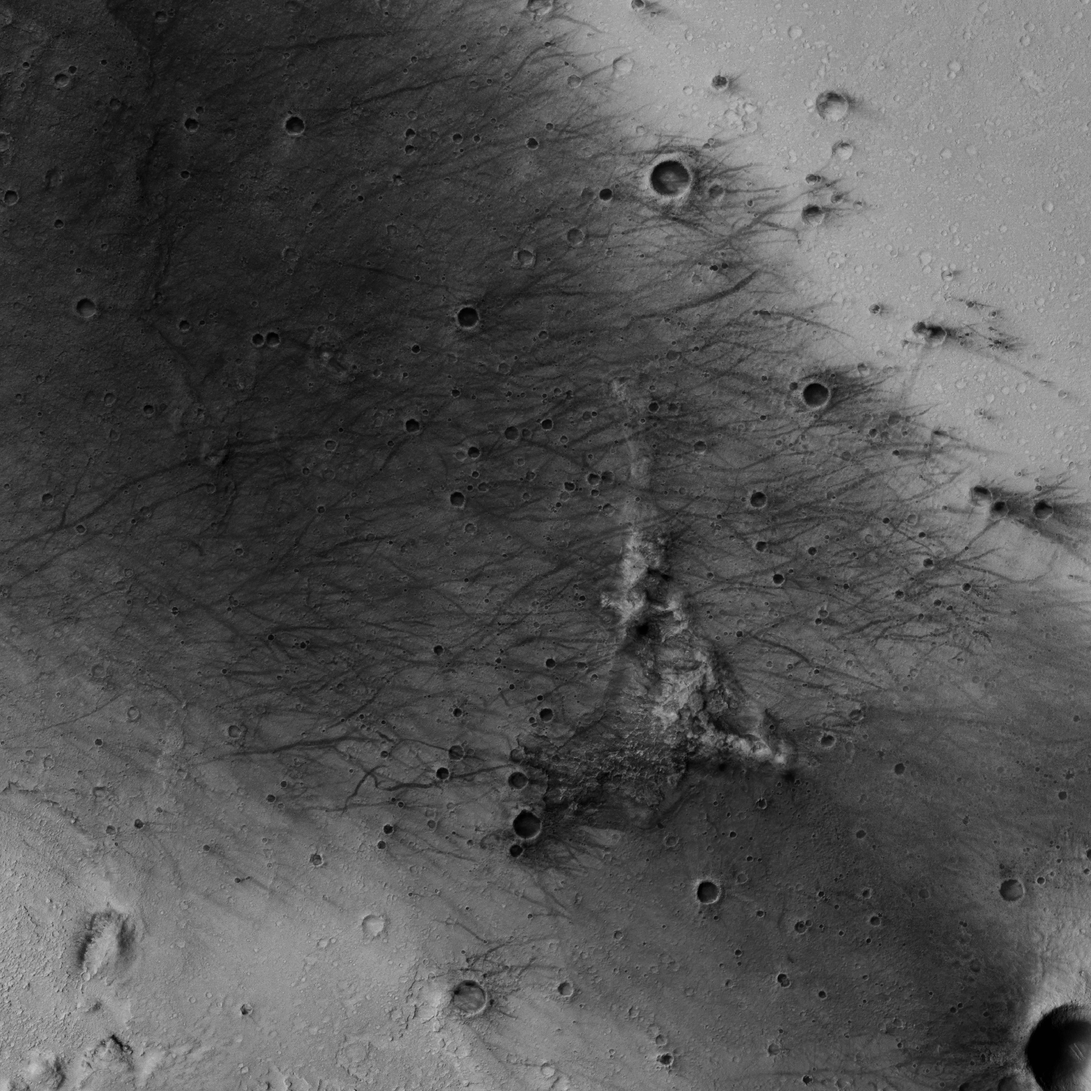
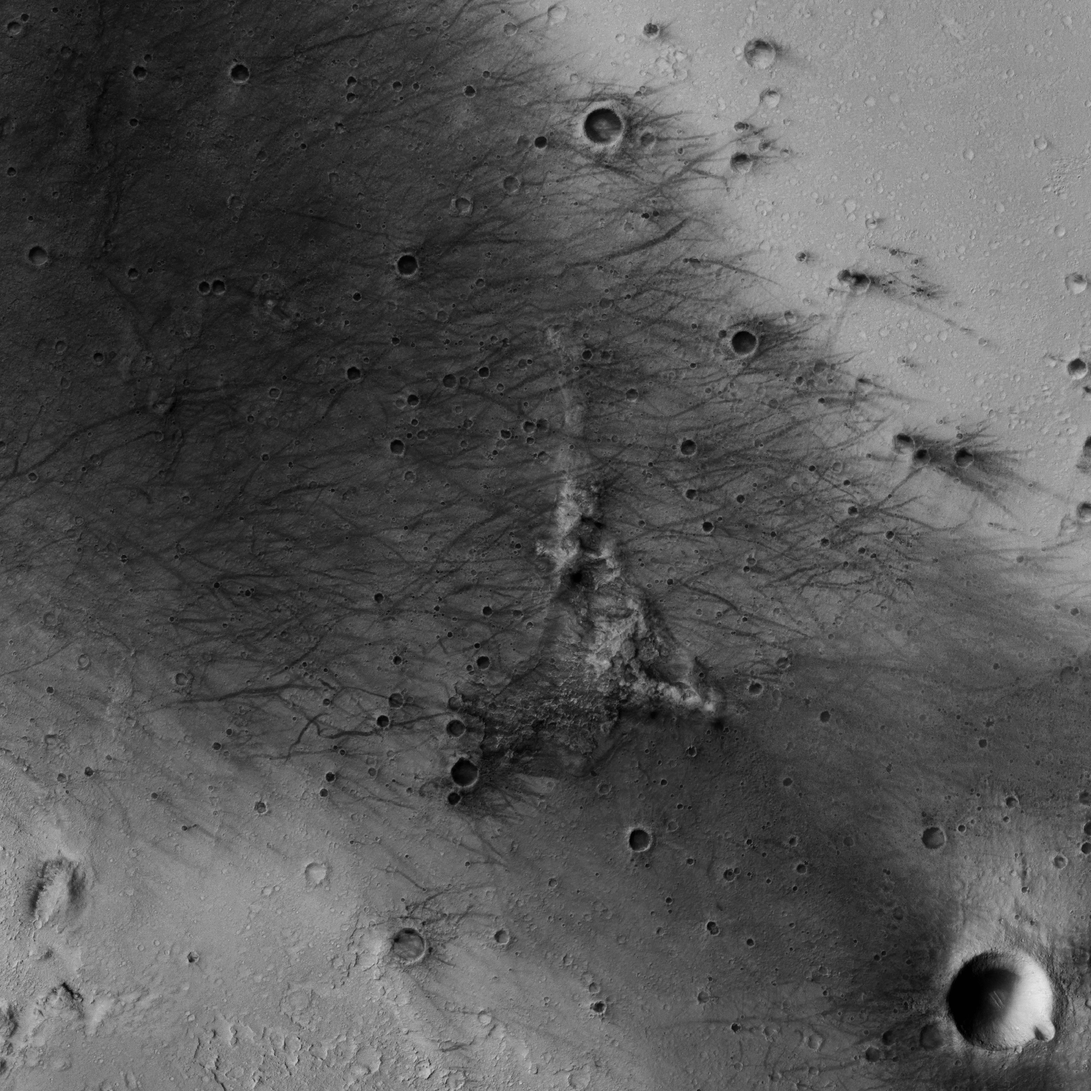
fix(mars): Spirit regional CTX square-pixel and registered to the detail patch; CTX tiles resume and mosaic across tile edges
Spirit's HiRISE patch sits 210 m east / 20 m south of where the CTX mosaic puts the same ground
(NCC 0.40 vs 0.15 second peak); hotspot_tier2_ctx_shift_m moves the CTX window, residual after
the re-cut 5 m. ctx-mosaic downloads now resume the partial zip (the server gives ~0.5 MB/s, a
1.9 GB tile cannot finish in one 30 min attempt) and fetch-mars-ctx builds a VRT over every tile the
window touches, so a site next to a tile edge (Viking 1, 0.1 degrees from its west edge, whose
shipped CTX is a slid window 4.6 km off) is cut centred instead of rejected. beagle2 pins its
HiRISE product in the sidecar ahead of its re-cut on the Bridges et al. 2017 position.

Claude-Session: https://claude.ai/code/session_01DJqN6rY9HUnN1X9JkpPWnW

diff --git a/scripts/hotspots/ctx-mosaic.ts b/scripts/hotspots/ctx-mosaic.ts
@@ -47,9 +47,38 @@ import { spawnSync, spawn } from 'node:child_process';
 
 const TILE_CACHE_DIR = path.join('.image-cache', 'ctx-mosaic');
 const TILE_URL_BASE = 'https://murray-lab.caltech.edu/CTX/V01/tiles';
-/** Per-URL download attempts on flaky connections. Same shape as
- *  the HiRISE downloader. ZIP is one big blob — no resume. */
-const DOWNLOAD_MAX_ATTEMPTS = 3;
+/** Per-URL download attempts. The server gives ~0.5 MB/s per connection, so a
+ *  1.9 GB zip takes more than one 30 min attempt: each attempt resumes the
+ *  partial file (curl -C -). */
+const DOWNLOAD_MAX_ATTEMPTS = 24;
+
+/**
+ * Centres of every 4 degree tile a window of +-halfNsDeg latitude and
+ * +-halfEwDeg longitude around (lat, lon) touches, one point per tile. A
+ * window that crosses a tile edge has to be cut from a mosaic of the
+ * neighbours (Viking 1 sits 0.1 degrees from its tile's west edge).
+ */
+export function tileCentresForWindow(
+  lat: number,
+  lon: number,
+  halfNsDeg: number,
+  halfEwDeg: number,
+): Array<{ lat: number; lon: number }> {
+  const out: Array<{ lat: number; lon: number }> = [];
+  const seen = new Set<string>();
+  const lat0 = Math.floor((lat - halfNsDeg) / 4) * 4;
+  const lon0 = Math.floor((lon - halfEwDeg) / 4) * 4;
+  for (let la = lat0; la <= lat + halfNsDeg; la += 4) {
+    for (let lo = lon0; lo <= lon + halfEwDeg; lo += 4) {
+      const c = { lat: la + 2, lon: lo + 2 };
+      const name = tileNameForLatLon(c.lat, c.lon);
+      if (seen.has(name)) continue;
+      seen.add(name);
+      out.push(c);
+    }
+  }
+  return out;
+}
 
 /**
  * Compute the tile name `E{lon}_N{lat}` for the (lat, lon) point.
@@ -229,13 +258,14 @@ async function downloadWithRetry(url: string, outPath: string): Promise<void> {
     const label = attempt > 1 ? ` (attempt ${attempt}/${DOWNLOAD_MAX_ATTEMPTS})` : '';
     console.log(`  downloading ${url.slice(0, 80)}…${label}`);
     const t0 = Date.now();
-    if (existsSync(outPath)) await fs.unlink(outPath);
     try {
       await new Promise<void>((resolve, reject) => {
         const proc = spawn(
           'curl',
           [
             '-sSL',
+            '-C',
+            '-',
             '--fail',
             '--connect-timeout',
             '30',

diff --git a/scripts/hotspots/fetch-mars-ctx.ts b/scripts/hotspots/fetch-mars-ctx.ts
@@ -1,8 +1,14 @@
 import { existsSync, readFileSync, promises as fs } from 'node:fs';
 import path from 'node:path';
 import sharp from 'sharp';
+import gdal from 'gdal-async';
 import { cropRemoteRasterToLatLon, CropError } from './gdal-crop.ts';
-import { ensureCtxMosaicTile, tileNameForLatLon, tileUrlForName } from './ctx-mosaic.ts';
+import {
+  ensureCtxMosaicTile,
+  tileCentresForWindow,
+  tileNameForLatLon,
+  tileUrlForName,
+} from './ctx-mosaic.ts';
 
 /**
  * Mars Tier 2a (regional CTX layer) fetch orchestrator.
@@ -272,10 +278,31 @@ async function fetchOneCtx(
     console.log(`  · ${hotspot.id} dry-run → tile ${tileName} → ${outputPath}`);
     return null;
   }
-  const localTilePath = await ensureCtxMosaicTile(centre.lat, centre.lon);
   const cropPx = cropPxFor(hotspot.id, centre);
+  const srcPx = eastWestSourcePx(cropPx, centre.lat);
+  // Tile grid is 4 degrees; the tile raster is 5 m per pixel of arc at the equator.
+  const mPerDeg = (Math.PI / 180) * 3396190;
+  const tiles = tileCentresForWindow(
+    centre.lat,
+    centre.lon,
+    (cropPx * 5) / 2 / mPerDeg,
+    (srcPx * 5) / 2 / mPerDeg,
+  );
+  const tilePaths: string[] = [];
+  for (const t of tiles) tilePaths.push(await ensureCtxMosaicTile(t.lat, t.lon));
+  let localTilePath = tilePaths[0];
+  if (tilePaths.length > 1) {
+    // Same global grid and CRS, so a VRT needs no reprojection.
+    localTilePath = `/vsimem/ctx-${hotspot.id}.vrt`;
+    const vrt = await gdal.buildVRTAsync(localTilePath, tilePaths, [
+      '-srcnodata',
+      '0',
+      '-vrtnodata',
+      '0',
+    ]);
+    vrt.close();
+  }
   try {
-    const srcPx = eastWestSourcePx(cropPx, centre.lat);
     const widePath = `${outputPath}.wide.tmp.jpg`;
     const crop = await cropRemoteRasterToLatLon({
       localRasterPath: localTilePath,

diff --git a/scripts/hotspots/fetch-mars-ctx.test.ts b/scripts/hotspots/fetch-mars-ctx.test.ts
@@ -1,5 +1,6 @@
 import { describe, expect, it } from 'vitest';
 import { ctxShiftedCentre, eastWestSourcePx } from './fetch-mars-ctx.ts';
+import { tileCentresForWindow, tileNameForLatLon } from './ctx-mosaic.ts';
 
 describe('eastWestSourcePx (Murray CTX tiles are 5 m N-S but 5 x cos(lat) m E-W)', () => {
   it('is the crop size at the equator', () => {
@@ -27,5 +28,19 @@ describe('ctxShiftedCentre', () => {
     const c = ctxShiftedCentre({ lat: 47.66729, lon: 134.2809 }, { north: 285, east: 5 });
     expect(c.lat).toBeCloseTo(47.66729 + 285 / 59157.9, 5);
     expect(c.lon).toBeGreaterThan(134.2809);
+  });
+});
+
+describe('tileCentresForWindow', () => {
+  it('is one tile when the window stays inside it', () => {
+    expect(tileCentresForWindow(-4.72, 137.38, 0.15, 0.15)).toHaveLength(1);
+  });
+
+  it('adds the western neighbour for Viking 1 (0.1 degrees from its tile edge)', () => {
+    const names = tileCentresForWindow(22.27, -47.95, 0.13, 0.4).map((c) =>
+      tileNameForLatLon(c.lat, c.lon),
+    );
+    expect(names).toContain('E-048_N20');
+    expect(names).toContain('E-052_N20');
   });
 });
